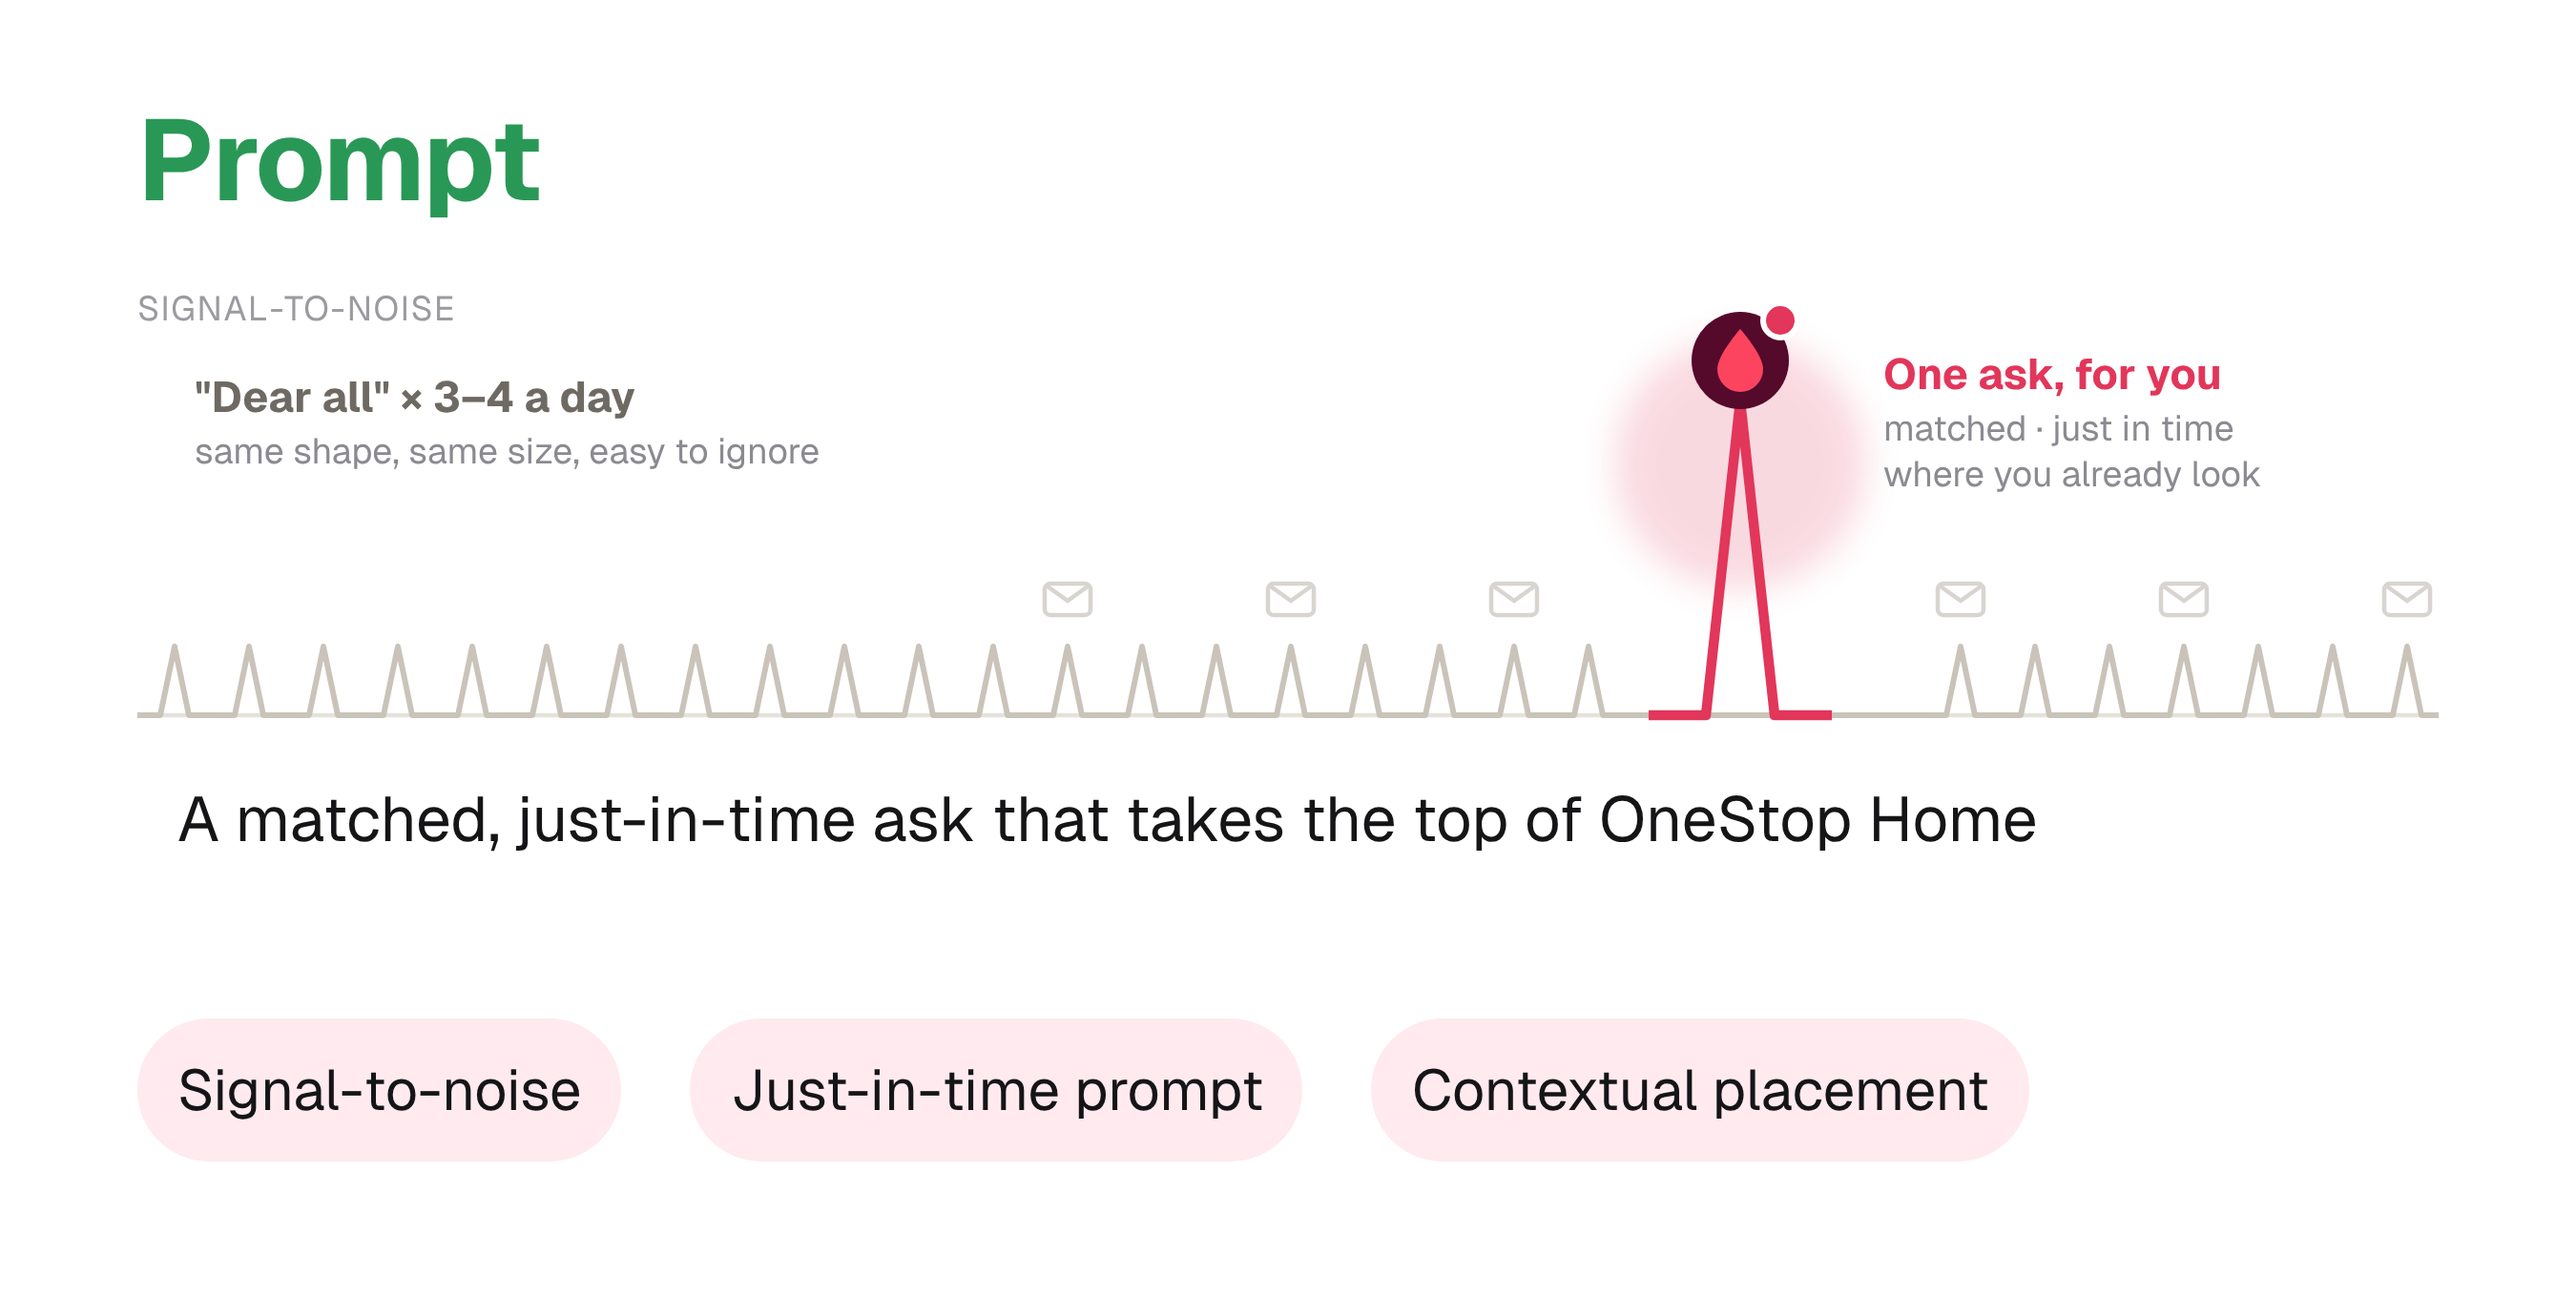
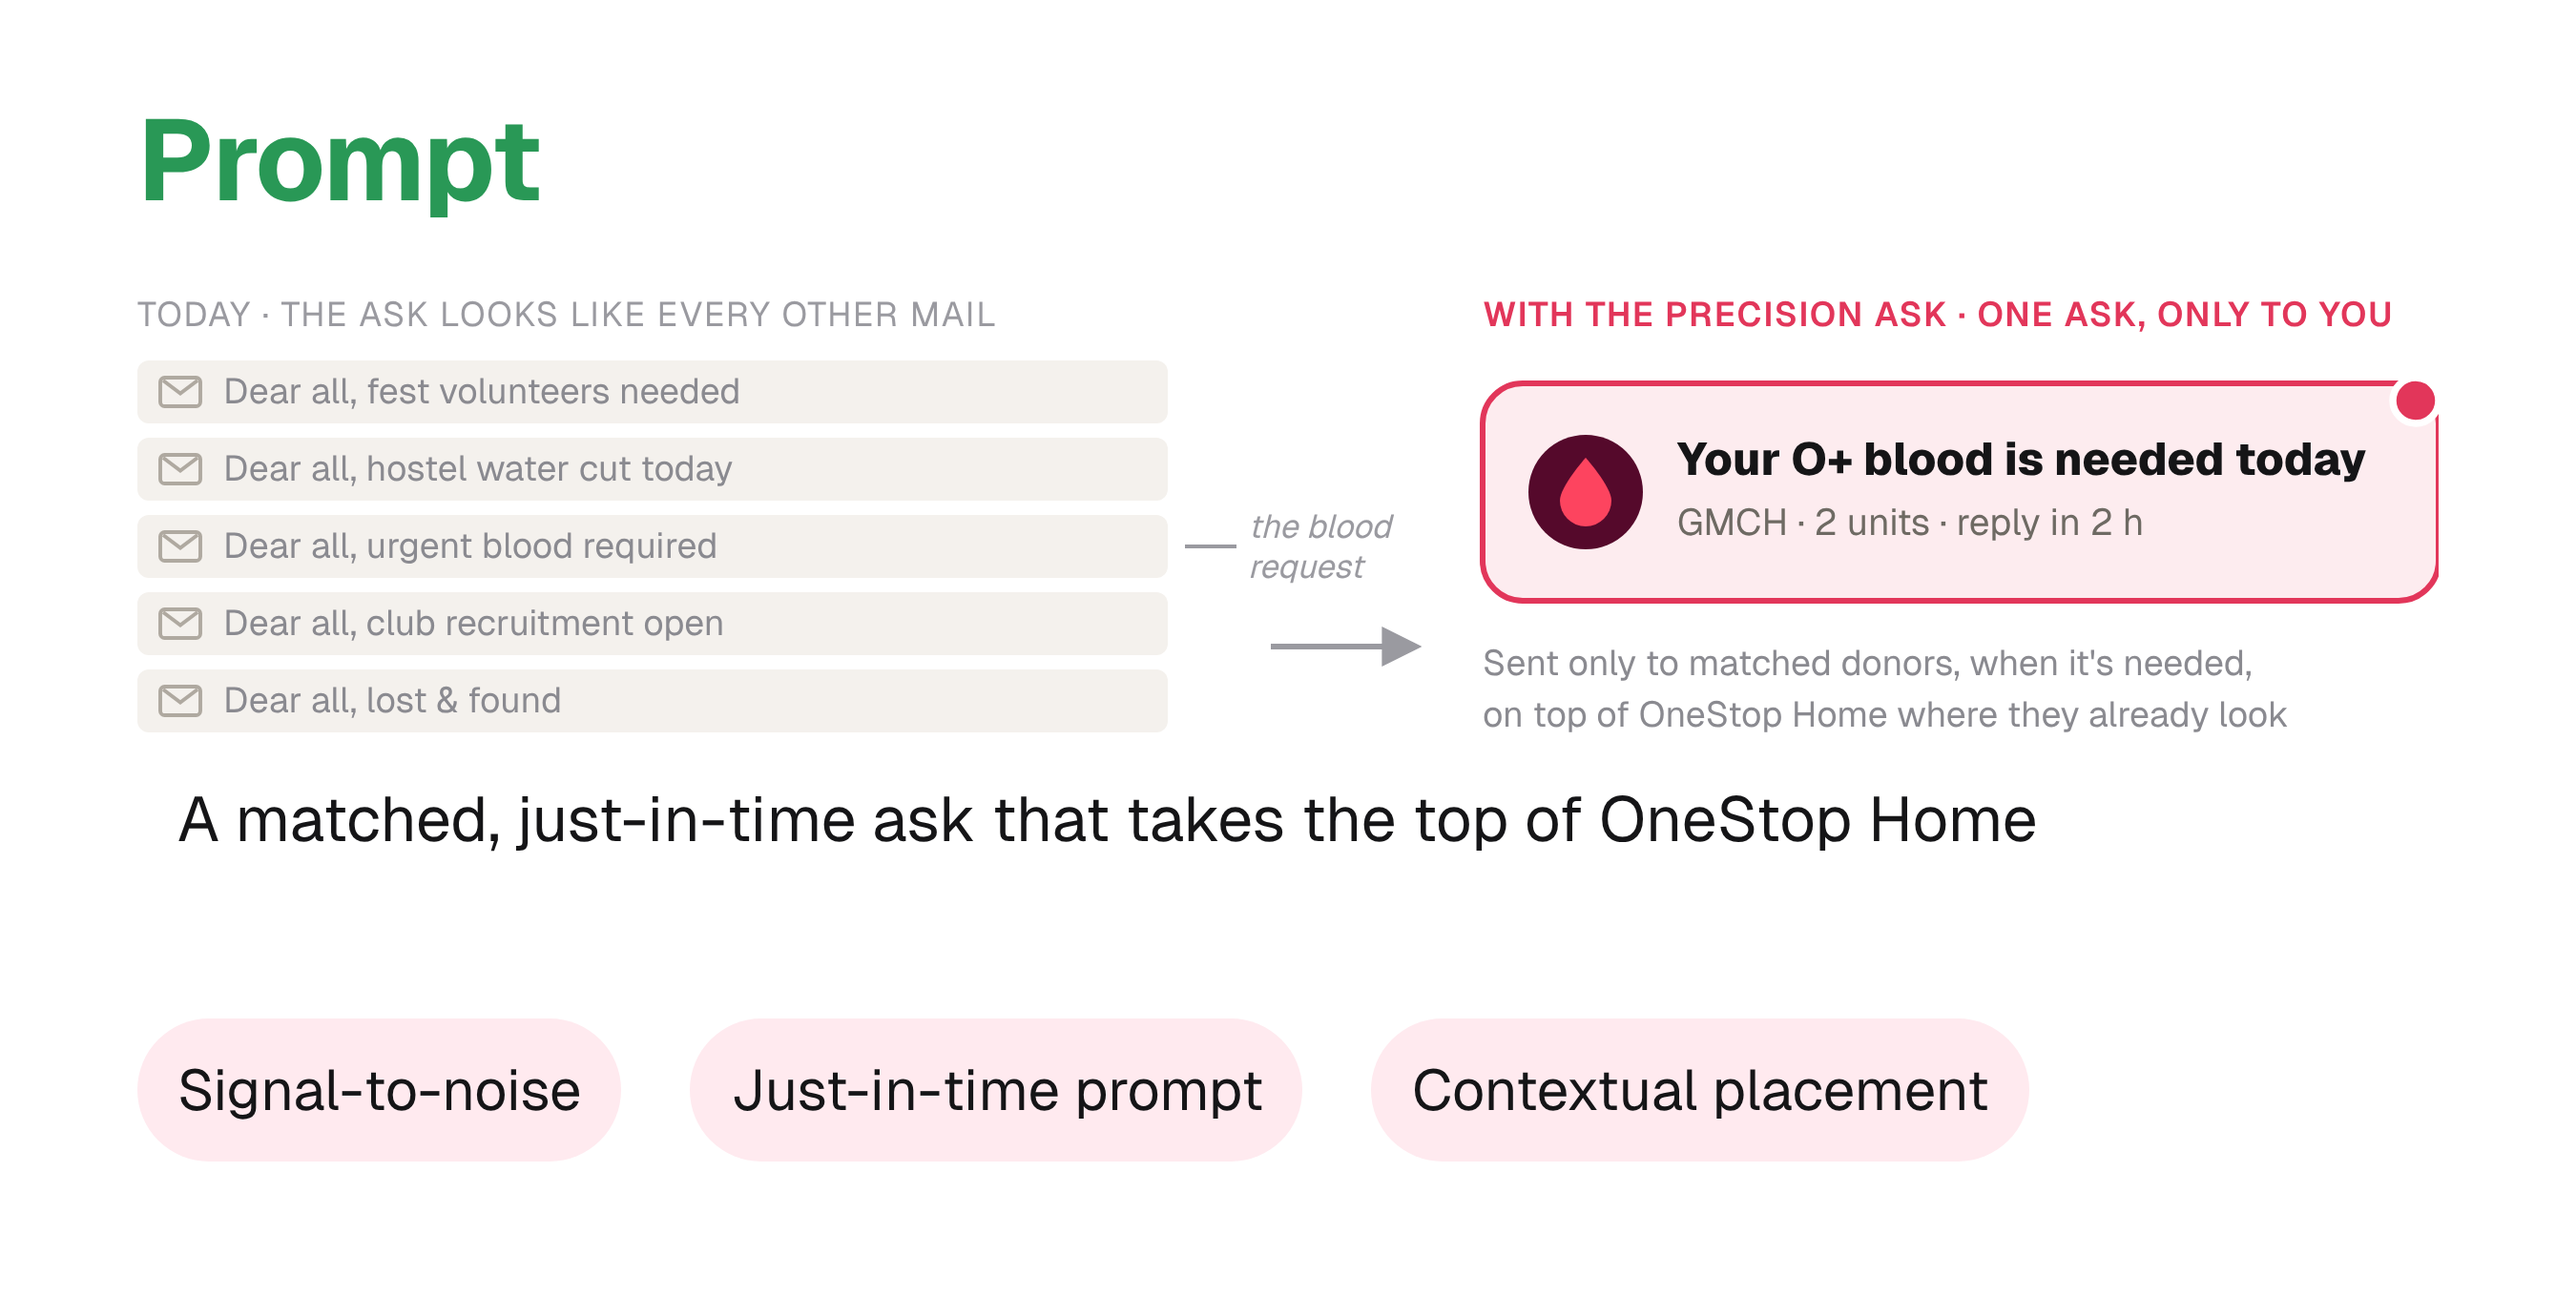
Approach modules: simpler before/after visuals for Ability and Prompt
Claude-Session: https://claude.ai/code/session_01GaKacWWLGLNQouYaKsuzQY

diff --git a/design/exhibition/approach_modules/modules.html b/design/exhibition/approach_modules/modules.html
@@ -77,6 +77,14 @@
   .concept .sm { font-size: 12.5px; fill: #8A8A90; }
   .concept .ann { font-size: 15px; font-weight: 700; fill: #6E6A63; }
   .concept .ann.red { fill: #E2365A; }
+  .concept .lab.g { fill: #299856; font-weight: 600; } .concept .lab.r { fill: #E2365A; font-weight: 600; }
+  .concept .bx { font-size: 12.5px; fill: #6E6A63; text-anchor: middle; font-weight: 500; }
+  .concept .pill { font-size: 16px; font-weight: 700; fill: #fff; text-anchor: middle; }
+  .concept .g2 { font-size: 14px; font-weight: 700; fill: #299856; }
+  .concept .ib { font-size: 12.5px; fill: #8A8A90; }
+  .concept .hint { font-size: 11.5px; fill: #9A9AA0; font-style: italic; }
+  .concept .ct { font-size: 16px; font-weight: 800; fill: #151517; }
+  .concept .cs { font-size: 13px; fill: #6E6A63; }
   #ability .art, #prompt .art { margin-top: 18px; height: 170px; }
 </style>
 </head>
@@ -87,43 +95,16 @@
   <h1>Ability</h1>
   <div class="art">
     <svg width="804" height="170" viewBox="0 0 804 170" class="concept">
-      <defs><marker id="ar" viewBox="0 0 10 10" refX="8" refY="5" markerWidth="7" markerHeight="7" orient="auto"><path d="M0 0L10 5L0 10z" fill="#9A9AA0"/></marker>
-      <linearGradient id="ramp" x1="0" x2="1"><stop offset="0" stop-color="#299856" stop-opacity=".25"/><stop offset="1" stop-color="#299856" stop-opacity=".06"/></linearGradient></defs>
-      <!-- Today: a staircase of effort -->
-      <text x="0" y="12" class="lab">TODAY · A STAIRCASE OF EFFORT</text>
-      <g fill="#ECE8E2" stroke="#D9D3C9">
-        <rect x="0"   y="138" width="56" height="22"/>
-        <rect x="56"  y="118" width="56" height="42"/>
-        <rect x="112" y="98"  width="56" height="62"/>
-        <rect x="168" y="78"  width="56" height="82"/>
-        <rect x="224" y="58"  width="56" height="102"/>
-        <rect x="280" y="38"  width="56" height="122"/>
-      </g>
-      <g class="stp">
-        <text x="28" y="153">mail</text><text x="84" y="133">group</text><text x="140" y="113">eligible?</text>
-        <text x="196" y="93">call</text><text x="252" y="73">travel</text><text x="308" y="53">hospital</text>
-      </g>
-      <!-- figure at the bottom, stuck -->
-      <g transform="translate(14,104)"><circle cx="8" cy="6" r="6" fill="#9A9AA0"/><path d="M2 32 L8 14 L14 32 M8 14 V24 M1 20 H15" stroke="#9A9AA0" stroke-width="3" fill="none" stroke-linecap="round"/></g>
-      <text x="42" y="98" class="q">?</text>
-      <path d="M360 100 H 420" stroke="#9A9AA0" stroke-width="2" marker-end="url(#ar)"/>
-      <!-- Now: one gentle ramp -->
-      <text x="440" y="12" class="lab">WITH THE PRECISION ASK · ONE GESTURE</text>
-      <path d="M440 160 L 800 160 L 800 128 Z" fill="url(#ramp)"/>
-      <path d="M440 160 L 800 128" stroke="#299856" stroke-width="3" stroke-linecap="round"/>
-      <!-- slider-knob heart rolling up the ramp, with a motion trail -->
-      <g opacity=".25"><circle cx="520" cy="134" r="13" fill="#E2365A"/></g>
-      <g opacity=".5"><circle cx="590" cy="128" r="13" fill="#E2365A"/></g>
-      <circle cx="668" cy="121" r="17" fill="#fff" stroke="#E2365A" stroke-width="3"/>
-      <path d="M668 128 c-8-5-11-9-11-13 a5 5 0 0 1 11-2 a5 5 0 0 1 11 2 c0 4-3 8-11 13z" fill="#E2365A"/>
-      <!-- what got absorbed by the system -->
-      <g class="abs2">
-        <text x="460" y="60">eligibility · pre-checked</text>
-        <text x="460" y="80">travel · ride on request</text>
-        <text x="460" y="100">contact · POC on tap</text>
-      </g>
-      <text x="800" y="60" class="big" text-anchor="end">6 → 1</text>
-      <text x="800" y="80" class="sm" text-anchor="end">steps the student carries</text>
+      <defs><marker id="ar" viewBox="0 0 10 10" refX="8" refY="5" markerWidth="6" markerHeight="6" orient="auto"><path d="M0 0L10 5L0 10z" fill="#B9B3AA"/></marker></defs>
+      <text x="0" y="14" class="lab">TODAY · 6 STEPS, ALL ON THE STUDENT</text>
+      <rect x="0" y="26" width="118" height="40" rx="8" fill="#F1EEEA" stroke="#DDD7CE"/><text x="59" y="51" class="bx">Read the mail</text><path d="M122 46 H133" stroke="#B9B3AA" stroke-width="1.6" marker-end="url(#ar)"/><rect x="137" y="26" width="118" height="40" rx="8" fill="#F1EEEA" stroke="#DDD7CE"/><text x="196" y="51" class="bx">Check if eligible</text><path d="M259 46 H270" stroke="#B9B3AA" stroke-width="1.6" marker-end="url(#ar)"/><rect x="274" y="26" width="118" height="40" rx="8" fill="#F1EEEA" stroke="#DDD7CE"/><text x="333" y="51" class="bx">Find who to call</text><path d="M396 46 H407" stroke="#B9B3AA" stroke-width="1.6" marker-end="url(#ar)"/><rect x="411" y="26" width="118" height="40" rx="8" fill="#F1EEEA" stroke="#DDD7CE"/><text x="470" y="51" class="bx">Call & confirm</text><path d="M533 46 H544" stroke="#B9B3AA" stroke-width="1.6" marker-end="url(#ar)"/><rect x="548" y="26" width="118" height="40" rx="8" fill="#F1EEEA" stroke="#DDD7CE"/><text x="607" y="51" class="bx">Arrange travel</text><path d="M670 46 H681" stroke="#B9B3AA" stroke-width="1.6" marker-end="url(#ar)"/><rect x="685" y="26" width="118" height="40" rx="8" fill="#F1EEEA" stroke="#DDD7CE"/><text x="744" y="51" class="bx">Find the ward</text>
+      <text x="0" y="100" class="lab g">WITH THE PRECISION ASK · 1 STEP FOR THE STUDENT</text>
+      <rect x="0" y="112" width="250" height="46" rx="23" fill="#299856"/>
+      <circle cx="23" cy="135" r="18" fill="#fff"/>
+      <path d="M23 142 c-8-5-11-9-11-13 a5 5 0 0 1 11-2 a5 5 0 0 1 11 2 c0 4-3 8-11 13z" fill="#E2365A"/>
+      <text x="140" y="141" class="pill">Swipe to say yes</text>
+      <text x="280" y="130" class="g2">The other five are done for them:</text>
+      <text x="280" y="150" class="sm">eligibility checked at sign-up · NSS sets the slot &amp; ride · POC one tap away</text>
     </svg>
   </div>
   <p class="move">Pre-screened at onboarding, slide to commit, POC on tap, ride on request</p>
@@ -135,26 +116,21 @@
   <h1>Prompt</h1>
   <div class="art">
     <svg width="804" height="170" viewBox="0 0 804 170" class="concept">
-      <defs><filter id="glow" x="-50%" y="-50%" width="200%" height="200%"><feGaussianBlur stdDeviation="6"/></filter></defs>
-      <text x="0" y="12" class="lab">SIGNAL-TO-NOISE</text>
-      <!-- baseline -->
-      <line x1="0" y1="150" x2="804" y2="150" stroke="#E6E1DA" stroke-width="1.5"/>
-      <!-- noise: identical mails, identical low peaks -->
-      <path id="noise" d="" fill="none" stroke="#C9C3BA" stroke-width="2" stroke-linejoin="round"/>
-      <g id="envs"></g>
-      <!-- the signal -->
-      <ellipse cx="560" cy="62" rx="44" ry="44" fill="#E2365A" opacity=".18" filter="url(#glow)"/>
-      <path d="M528 150 L 548 150 L 560 40 L 572 150 L 592 150" fill="none" stroke="#E2365A" stroke-width="3.5" stroke-linejoin="round"/>
-      <!-- the ask: drop + notification dot -->
-      <circle cx="560" cy="26" r="17" fill="#55092B"/>
-      <path d="M560 15 c0 0 -8 9 -8 14 a8 8 0 0 0 16 0 c0 -5 -8 -14 -8 -14z" fill="#FD445F"/>
-      <circle cx="574" cy="12" r="6" fill="#E2365A" stroke="#fff" stroke-width="2"/>
-      <!-- annotations -->
-      <text x="20" y="44" class="ann">"Dear all" × 3–4 a day</text>
-      <text x="20" y="62" class="sm">same shape, same size, easy to ignore</text>
-      <text x="610" y="36" class="ann red">One ask, for you</text>
-      <text x="610" y="54" class="sm">matched · just in time</text>
-      <text x="610" y="70" class="sm">where you already look</text>
+      <defs><marker id="ar2" viewBox="0 0 10 10" refX="8" refY="5" markerWidth="7" markerHeight="7" orient="auto"><path d="M0 0L10 5L0 10z" fill="#9A9AA0"/></marker></defs>
+      <text x="0" y="14" class="lab">TODAY · THE ASK LOOKS LIKE EVERY OTHER MAIL</text>
+      <g transform="translate(0,26)"><rect width="360" height="22" rx="4" fill="#F4F1ED"/><rect x="8" y="6" width="14" height="10" rx="1.5" fill="none" stroke="#AFA9A0" stroke-width="1.3"/><path d="M9 7 L15 11.5 L21 7" fill="none" stroke="#AFA9A0" stroke-width="1.3"/><text x="30" y="15" class="ib">Dear all, fest volunteers needed</text></g><g transform="translate(0,53)"><rect width="360" height="22" rx="4" fill="#F4F1ED"/><rect x="8" y="6" width="14" height="10" rx="1.5" fill="none" stroke="#AFA9A0" stroke-width="1.3"/><path d="M9 7 L15 11.5 L21 7" fill="none" stroke="#AFA9A0" stroke-width="1.3"/><text x="30" y="15" class="ib">Dear all, hostel water cut today</text></g><g transform="translate(0,80)"><rect width="360" height="22" rx="4" fill="#F4F1ED"/><rect x="8" y="6" width="14" height="10" rx="1.5" fill="none" stroke="#AFA9A0" stroke-width="1.3"/><path d="M9 7 L15 11.5 L21 7" fill="none" stroke="#AFA9A0" stroke-width="1.3"/><text x="30" y="15" class="ib">Dear all, urgent blood required</text></g><g transform="translate(0,107)"><rect width="360" height="22" rx="4" fill="#F4F1ED"/><rect x="8" y="6" width="14" height="10" rx="1.5" fill="none" stroke="#AFA9A0" stroke-width="1.3"/><path d="M9 7 L15 11.5 L21 7" fill="none" stroke="#AFA9A0" stroke-width="1.3"/><text x="30" y="15" class="ib">Dear all, club recruitment open</text></g><g transform="translate(0,134)"><rect width="360" height="22" rx="4" fill="#F4F1ED"/><rect x="8" y="6" width="14" height="10" rx="1.5" fill="none" stroke="#AFA9A0" stroke-width="1.3"/><path d="M9 7 L15 11.5 L21 7" fill="none" stroke="#AFA9A0" stroke-width="1.3"/><text x="30" y="15" class="ib">Dear all, lost &amp; found</text></g>
+      <path d="M366 91 H 384" stroke="#9A9AA0" stroke-width="1.4"/>
+      <text x="388" y="88" class="hint">the blood</text><text x="388" y="102" class="hint">request</text>
+      <path d="M396 126 H 446" stroke="#9A9AA0" stroke-width="2" marker-end="url(#ar2)"/>
+      <text x="470" y="14" class="lab r">WITH THE PRECISION ASK · ONE ASK, ONLY TO YOU</text>
+      <rect x="470" y="34" width="334" height="76" rx="14" fill="#FDECEF" stroke="#E2365A" stroke-width="2"/>
+      <circle cx="506" cy="72" r="20" fill="#55092B"/>
+      <path d="M506 60 c0 0 -9 10 -9 15 a9 9 0 0 0 18 0 c0 -5 -9 -15 -9 -15z" fill="#FD445F"/>
+      <text x="538" y="66" class="ct">Your O+ blood is needed today</text>
+      <text x="538" y="87" class="cs">GMCH · 2 units · reply in 2 h</text>
+      <circle cx="796" cy="40" r="8" fill="#E2365A" stroke="#fff" stroke-width="2.5"/>
+      <text x="470" y="136" class="sm">Sent only to matched donors, when it's needed,</text>
+      <text x="470" y="154" class="sm">on top of OneStop Home where they already look</text>
     </svg>
   </div>
   <p class="move">A matched, just-in-time ask that takes the top of OneStop Home</p>
@@ -181,17 +157,5 @@
   <div class="chips"><span>Peak-end rule</span><span>Closed feedback loop</span><span>Social proof</span></div>
 </div>
 
-<script>
-  // noise: many identical low bumps (one per mail), with an envelope above some
-  let d = 'M0 150', env = '';
-  for (let x = 0; x < 804; x += 26) {
-    if (x > 515 && x < 600) { d += ` L ${x} 150`; continue; }
-    d += ` L ${x + 8} 150 L ${x + 13} 126 L ${x + 18} 150`;
-    if ((x / 26) % 3 === 0 && (x < 500 || x > 610) && x > 260 || (x/26)%3===0 && x<240 && false)
-      env += `<g transform="translate(${x + 5},104)" opacity=".55"><rect width="16" height="11" rx="2" fill="none" stroke="#B9B3AA" stroke-width="1.5"/><path d="M1 1 L8 6 L15 1" fill="none" stroke="#B9B3AA" stroke-width="1.5"/></g>`;
-  }
-  document.getElementById('noise').setAttribute('d', d + ' L 804 150');
-  document.getElementById('envs').innerHTML = env;
-</script>
 </body>
 </html>
